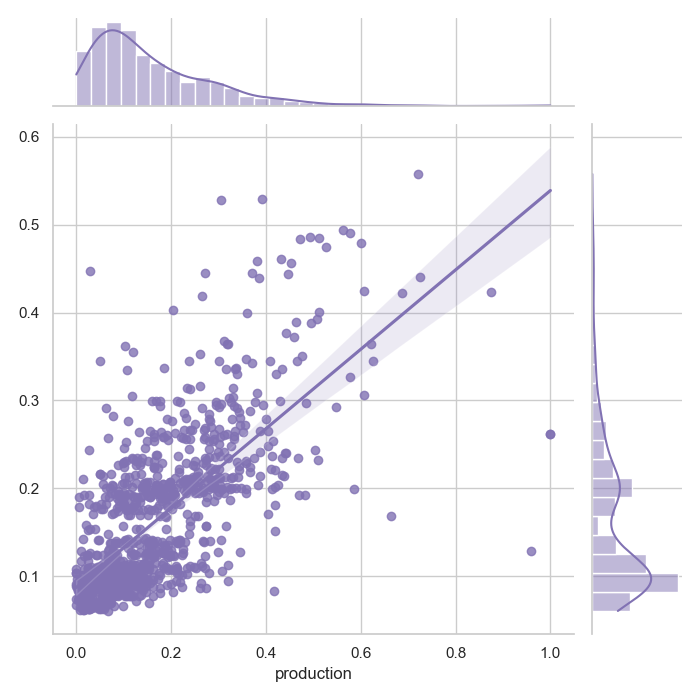
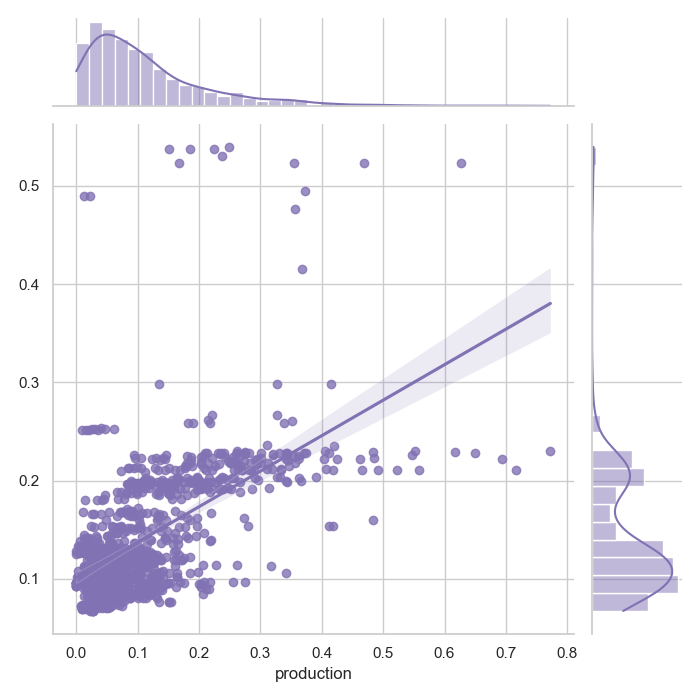
refactor: erros gramaticais e imports desnecessários

diff --git a/oleo.py b/oleo.py
@@ -2,12 +2,12 @@ from sklearn.preprocessing import StandardScaler
 from sklearn.ensemble import RandomForestRegressor
 from sklearn.model_selection import train_test_split
 from sklearn.metrics import mean_absolute_error
-from pandas import read_csv, get_dummies, DataFrame
+from pandas import read_csv, DataFrame
 from seaborn import jointplot, set
 from sklearn.ensemble import RandomForestRegressor
 from pandas import read_csv, to_datetime, concat, DataFrame
 from matplotlib.pyplot import subplots
-from seaborn import despine, displot, lineplot, set
+from seaborn import lineplot, set
 
 set(style="whitegrid")
 
@@ -16,7 +16,7 @@ def to_date(dados):
     return to_datetime(dados.year * 10000 + dados.month * 100 + 1, format='%Y%m%d')
 
 
-def analise_propria(dados_treino, dados_teste, colunas):
+def analise_propria(dados_treino, colunas):
     # Divisão dos dados
     x = dados_treino[colunas]
     y = dados_treino['production']
@@ -25,7 +25,7 @@ def analise_propria(dados_treino, dados_teste, colunas):
     x = StandardScaler().fit_transform(x)
 
     # Divisão de dados para treino e teste
-    x_treino, x_teste, y_treino, y_teste = train_test_split(x, y, test_size=0.2, random_state=1)
+    x_treino, x_teste, y_treino, y_teste = train_test_split(x, y, test_size=0.2, random_state=1, shuffle=False)
     modelo = RandomForestRegressor(n_estimators=100, max_depth=5, random_state=1)
     modelo.fit(x_treino, y_treino)
     previsao = modelo.predict(x_teste)
@@ -54,12 +54,11 @@ def previsao_kaggle(dados_treino, dados_teste, colunas):
 
 
 def main():
-    # encontrar janela de tempo e concatenar dados dos meses passadaso
     dados_treino = read_csv('datasets/train new.csv')
     dados_teste = read_csv('datasets/test new.csv')
 
-    previsoes = previsao_kaggle(dados_treino, dados_teste, ['field','age','type','year','month','temperature','dewpoint','windspeed','Soilwater_L1','Precipitation','temperature_b1','temperature_b2','temperature_b3','temperature_b4','temperature_b5','temperature_b6','temperature_b7','temperature_b8','temperature_b9','temperature_b10','temperature_b11','temperature_b12','dewpoint_b1','dewpoint_b2','dewpoint_b3','dewpoint_b4','dewpoint_b5','dewpoint_b6','dewpoint_b7','dewpoint_b8','dewpoint_b9','dewpoint_b10','dewpoint_b11','dewpoint_b12','windspeed_b1','windspeed_b2','windspeed_b3','windspeed_b4','windspeed_b5','windspeed_b6','windspeed_b7','windspeed_b8','windspeed_b9','windspeed_b10','windspeed_b11','windspeed_b12','Soilwater_L1_b1','Soilwater_L1_b2','Soilwater_L1_b3','Soilwater_L1_b4','Soilwater_L1_b5','Soilwater_L1_b6','Soilwater_L1_b7','Soilwater_L1_b8','Soilwater_L1_b9','Soilwater_L1_b10','Soilwater_L1_b11','Soilwater_L1_b12','Precipitation_b1','Precipitation_b2','Precipitation_b3','Precipitation_b4','Precipitation_b5','Precipitation_b6','Precipitation_b7','Precipitation_b8','Precipitation_b9','Precipitation_b10','Precipitation_b11','Precipitation_b12'])    
-    analise_propria(dados_treino, dados_teste, ['field','age','type','year','month','temperature','dewpoint','windspeed','Soilwater_L1','Precipitation','temperature_b1','temperature_b2','temperature_b3','temperature_b4','temperature_b5','temperature_b6','temperature_b7','temperature_b8','temperature_b9','temperature_b10','temperature_b11','temperature_b12','dewpoint_b1','dewpoint_b2','dewpoint_b3','dewpoint_b4','dewpoint_b5','dewpoint_b6','dewpoint_b7','dewpoint_b8','dewpoint_b9','dewpoint_b10','dewpoint_b11','dewpoint_b12','windspeed_b1','windspeed_b2','windspeed_b3','windspeed_b4','windspeed_b5','windspeed_b6','windspeed_b7','windspeed_b8','windspeed_b9','windspeed_b10','windspeed_b11','windspeed_b12','Soilwater_L1_b1','Soilwater_L1_b2','Soilwater_L1_b3','Soilwater_L1_b4','Soilwater_L1_b5','Soilwater_L1_b6','Soilwater_L1_b7','Soilwater_L1_b8','Soilwater_L1_b9','Soilwater_L1_b10','Soilwater_L1_b11','Soilwater_L1_b12','Precipitation_b1','Precipitation_b2','Precipitation_b3','Precipitation_b4','Precipitation_b5','Precipitation_b6','Precipitation_b7','Precipitation_b8','Precipitation_b9','Precipitation_b10','Precipitation_b11','Precipitation_b12'])    
+    previsoes = previsao_kaggle(dados_treino, dados_teste, ['field','age','type','year','month','temperature','dewpoint','windspeed','Soilwater_L1','Precipitation','temperature_b1','temperature_b2','temperature_b3','temperature_b4','temperature_b5','temperature_b6','temperature_b7','temperature_b8','temperature_b9','temperature_b10','temperature_b11','temperature_b12','dewpoint_b1','dewpoint_b2','dewpoint_b3','dewpoint_b4','dewpoint_b5','dewpoint_b6','dewpoint_b7','dewpoint_b8','dewpoint_b9','dewpoint_b10','dewpoint_b11','dewpoint_b12','windspeed_b1','windspeed_b2','windspeed_b3','windspeed_b4','windspeed_b5','windspeed_b6','windspeed_b7','windspeed_b8','windspeed_b9','windspeed_b10','windspeed_b11','windspeed_b12','Soilwater_L1_b1','Soilwater_L1_b2','Soilwater_L1_b3','Soilwater_L1_b4','Soilwater_L1_b5','Soilwater_L1_b6','Soilwater_L1_b7','Soilwater_L1_b8','Soilwater_L1_b9','Soilwater_L1_b10','Soilwater_L1_b11','Soilwater_L1_b12','Precipitation_b1','Precipitation_b2','Precipitation_b3','Precipitation_b4','Precipitation_b5','Precipitation_b6','Precipitation_b7','Precipitation_b8','Precipitation_b9','Precipitation_b10','Precipitation_b11','Precipitation_b12'])
+    analise_propria(dados_treino, ['field','age','type','year','month','temperature','dewpoint','windspeed','Soilwater_L1','Precipitation','temperature_b1','temperature_b2','temperature_b3','temperature_b4','temperature_b5','temperature_b6','temperature_b7','temperature_b8','temperature_b9','temperature_b10','temperature_b11','temperature_b12','dewpoint_b1','dewpoint_b2','dewpoint_b3','dewpoint_b4','dewpoint_b5','dewpoint_b6','dewpoint_b7','dewpoint_b8','dewpoint_b9','dewpoint_b10','dewpoint_b11','dewpoint_b12','windspeed_b1','windspeed_b2','windspeed_b3','windspeed_b4','windspeed_b5','windspeed_b6','windspeed_b7','windspeed_b8','windspeed_b9','windspeed_b10','windspeed_b11','windspeed_b12','Soilwater_L1_b1','Soilwater_L1_b2','Soilwater_L1_b3','Soilwater_L1_b4','Soilwater_L1_b5','Soilwater_L1_b6','Soilwater_L1_b7','Soilwater_L1_b8','Soilwater_L1_b9','Soilwater_L1_b10','Soilwater_L1_b11','Soilwater_L1_b12','Precipitation_b1','Precipitation_b2','Precipitation_b3','Precipitation_b4','Precipitation_b5','Precipitation_b6','Precipitation_b7','Precipitation_b8','Precipitation_b9','Precipitation_b10','Precipitation_b11','Precipitation_b12'])
 
     res_submissao = DataFrame({'Id': previsoes.Id, 'production': previsoes.production})
     res_submissao.to_csv('submission.csv', index=False)

diff --git a/visualizacao_dados.py b/visualizacao_dados.py
@@ -1,7 +1,7 @@
 from sklearn.ensemble import RandomForestRegressor
 from pandas import read_csv, to_datetime, concat, DataFrame
 from matplotlib.pyplot import subplots
-from seaborn import despine, displot, lineplot, set
+from seaborn import displot, lineplot, set
 set(style="whitegrid")
 
 
@@ -20,33 +20,23 @@ def main():
 
     dados_todos = concat([dados_teste, dados_treino])
 
-
     # Proporção de dados de produção
-    # displot(dados_todos.production, color='g', kind='kde').figure.savefig('graphs/distribution_production.png')
-
+    displot(dados_todos.production, color='g', kind='kde').figure.savefig('graphs/distribution_production.png')
 
     # Média de produção
-    # print(dados_todos.production.mean())
-
-
-    # Normalização conforme a média
-    # dados_todos = dados_todos[(dados_todos.production < (dados_todos.production.mean() +dados_todos.production.std()*4)) | (dados_todos.production.isna())]
-
+    print(dados_todos.production.mean())
 
     # Gráfico de produção conforme os anos
-    figura, eixos = subplots(figsize=(12, 10))
+    _, eixos = subplots(figsize=(12, 10))
     lineplot(x='date', y='production', data=dados_todos, ax=eixos).figure.savefig('graphs/production_by_year.png')
 
-
     # Gráfico de produção entre os meses
-    # figura, eixos = subplots(figsize=(12, 10))
-    # lineplot(x='month', y='production', data=dados_todos, ax=eixos).figure.savefig('graphs/production_by_month.png')
-
+    _, eixos = subplots(figsize=(12, 10))
+    lineplot(x='month', y='production', data=dados_todos, ax=eixos).figure.savefig('graphs/production_by_month.png')
 
     # Grafico de produção de acordo com a idade da árvore
-    # figura, eixos = subplots(figsize=(12, 10))
-    # lineplot(x='Precipitation', y='production', data=dados_todos, ax=eixos).figure.savefig('graphs/production_by_age.png')
-
+    _, eixos = subplots(figsize=(12, 10))
+    lineplot(x='age', y='production', data=dados_todos, ax=eixos).figure.savefig('graphs/production_by_age.png')
 
     # Verificar importância das colunas
     modelo = RandomForestRegressor()

diff --git a/cv_for_model_prmts.py b/cv_for_model_prmts.py
@@ -1,7 +1,6 @@
 from sklearn.model_selection import RandomizedSearchCV
 from sklearn.ensemble import RandomForestRegressor
-from pandas import read_csv, get_dummies, DataFrame
-from numpy import linspace
+from pandas import read_csv, get_dummies
 
 
 def main():

diff --git a/data_treatment.py b/data_treatment.py
@@ -1,4 +1,4 @@
-from pandas import read_csv, DataFrame, merge, concat
+from pandas import read_csv, merge, concat
 from os import listdir
 
 
